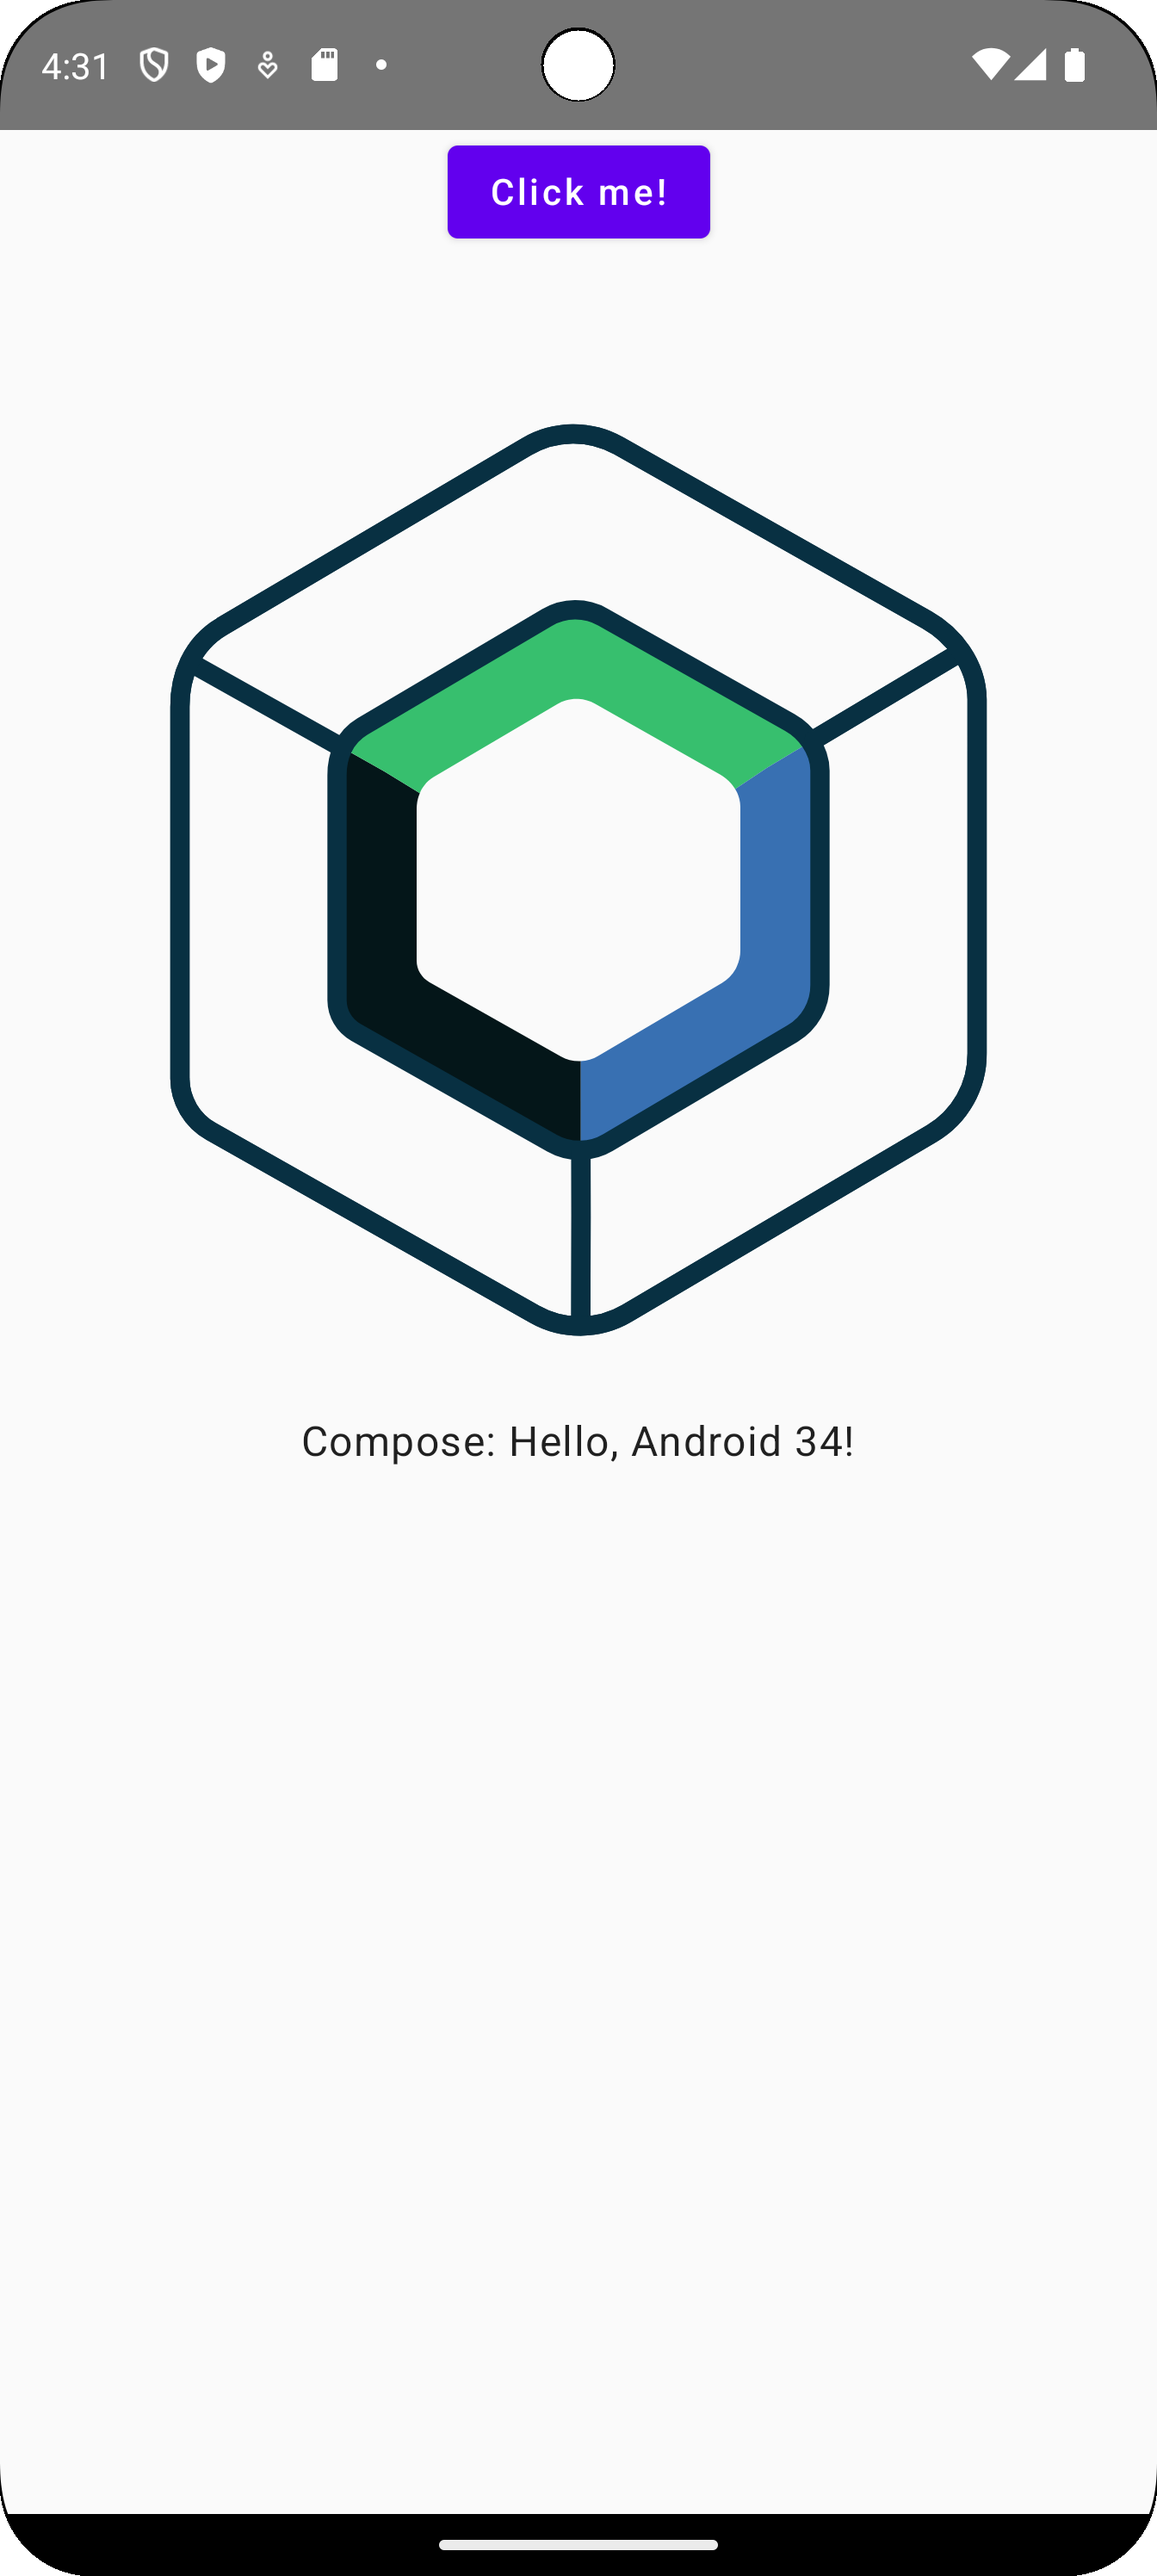
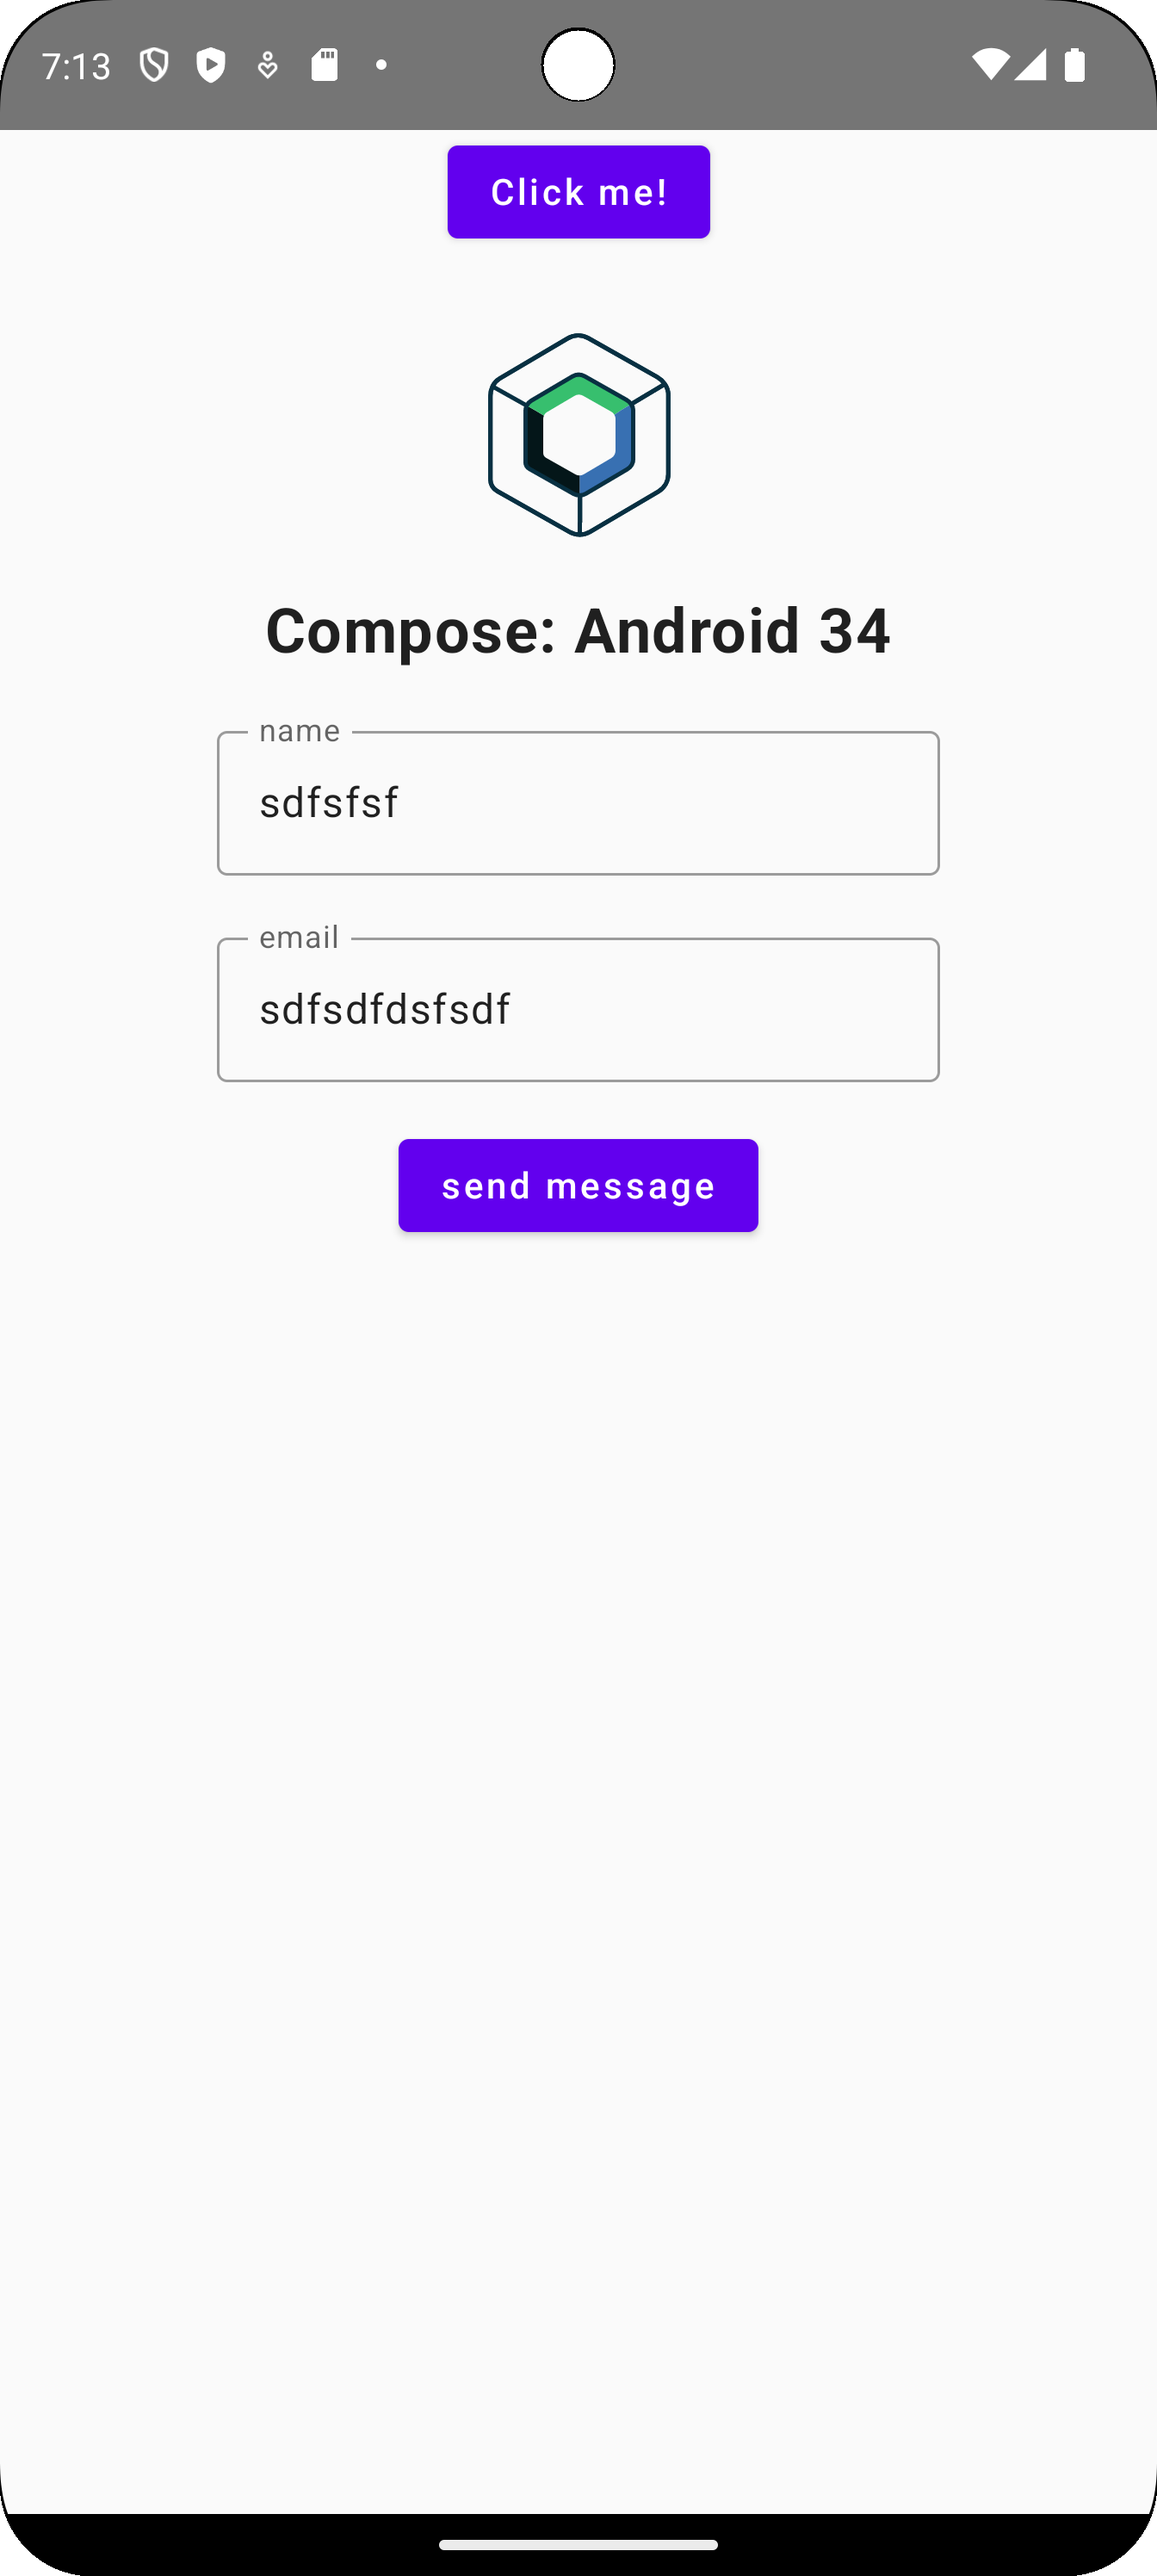
add form

Changed region(s): [[0.125, 0.1243, 0.875, 0.5284], [0.0625, 0.0, 0.0938, 0.0311]]

diff --git a/composeApp/src/commonMain/kotlin/App.kt b/composeApp/src/commonMain/kotlin/App.kt
@@ -1,13 +1,21 @@
 import androidx.compose.animation.AnimatedVisibility
 import androidx.compose.foundation.Image
+import androidx.compose.foundation.layout.Arrangement
 import androidx.compose.foundation.layout.Column
+import androidx.compose.foundation.layout.Spacer
+import androidx.compose.foundation.layout.fillMaxSize
 import androidx.compose.foundation.layout.fillMaxWidth
+import androidx.compose.foundation.layout.height
 import androidx.compose.material.Button
 import androidx.compose.material.MaterialTheme
+import androidx.compose.material.OutlinedTextField
 import androidx.compose.material.Text
 import androidx.compose.runtime.*
 import androidx.compose.ui.Alignment
 import androidx.compose.ui.Modifier
+import androidx.compose.ui.text.font.FontWeight
+import androidx.compose.ui.unit.dp
+import androidx.compose.ui.unit.sp
 import org.jetbrains.compose.resources.painterResource
 import org.jetbrains.compose.ui.tooling.preview.Preview
 
@@ -18,6 +26,8 @@ import composedemo.composeapp.generated.resources.compose_multiplatform
 @Preview
 fun App() {
     MaterialTheme {
+        var text1 by remember { mutableStateOf("") }
+        var text2 by remember { mutableStateOf("") }
         var showContent by remember { mutableStateOf(false) }
         Column(Modifier.fillMaxWidth(), horizontalAlignment = Alignment.CenterHorizontally) {
             Button(onClick = { showContent = !showContent }) {
@@ -25,9 +35,50 @@ fun App() {
             }
             AnimatedVisibility(showContent) {
                 val greeting = remember { Greeting().greet() }
-                Column(Modifier.fillMaxWidth(), horizontalAlignment = Alignment.CenterHorizontally) {
-                    Image(painterResource(Res.drawable.compose_multiplatform), null)
-                    Text("Compose: $greeting")
+                Column(
+                    modifier = Modifier.fillMaxSize(),
+                    verticalArrangement = Arrangement.Top,
+                    horizontalAlignment = Alignment.CenterHorizontally
+                ) {
+                    Spacer(modifier = Modifier.height(16.dp))
+
+                    Image(
+                        painterResource(Res.drawable.compose_multiplatform),
+                        contentDescription = null, // Important for accessibility
+                        modifier = Modifier
+                            .fillMaxWidth(0.8f)  // Occupy 80% of available width
+                            .height(100.dp)      // Set fixed height
+                    )
+
+                    Spacer(modifier = Modifier.height(16.dp))
+
+                    Text(
+                        text = "Compose: $greeting",
+                        fontSize = 24.sp,
+                        fontWeight = FontWeight.Bold
+                    )
+
+                    Spacer(modifier = Modifier.height(16.dp))
+
+                    OutlinedTextField(
+                        value = text1,
+                        onValueChange = { text1 = it },
+                        label = { Text("name") }
+                    )
+
+                    Spacer(modifier = Modifier.height(16.dp))
+
+                    OutlinedTextField(
+                        value = text2,
+                        onValueChange = { text2 = it },
+                        label = { Text("email") }
+                    )
+
+                    Spacer(modifier = Modifier.height(16.dp))
+
+                    Button(onClick = { /* Handle button click */ }) {
+                        Text("send message")
+                    }
                 }
             }
         }

diff --git a/composeApp/src/commonMain/kotlin/Greeting.kt b/composeApp/src/commonMain/kotlin/Greeting.kt
@@ -2,6 +2,6 @@ class Greeting {
     private val platform = getPlatform()
 
     fun greet(): String {
-        return "Hello, ${platform.name}!"
+        return platform.name
     }
 }
